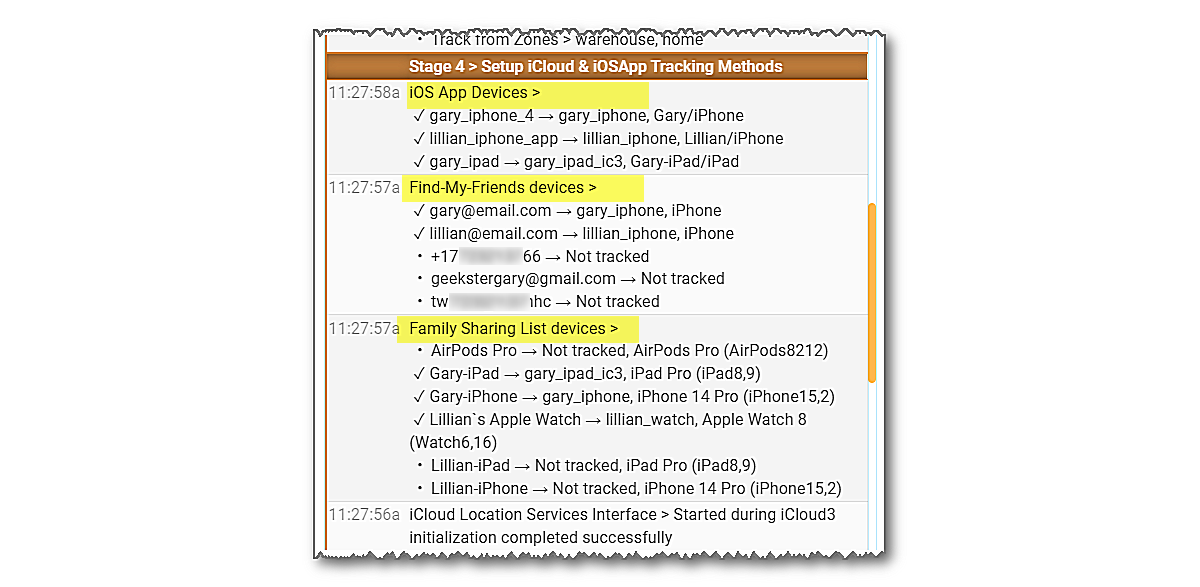
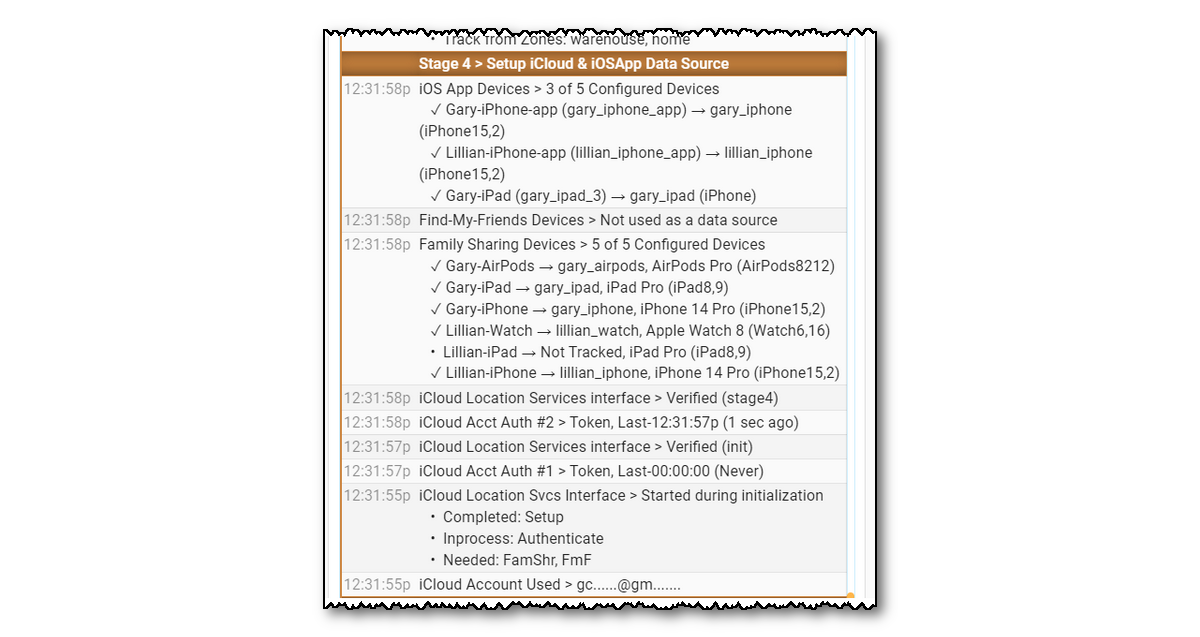
iCloud3 v3, docs

Changed region(s): [[0.2467, 0.0307, 0.7708, 0.9813]]

diff --git a/docs/chapters/4.2-device-tracking-problems.md b/docs/chapters/4.2-device-tracking-problems.md
@@ -1,5 +1,11 @@
 # Device Tracking Problems
 
+The following questions are discussed below:
+
+- The Event Log shows the following message but I can not find the 'platform: icloud3' parameter
+- The phone does not go to an Away state when you exit a zone
+-  Not all of the devices are being tracked
+
 
 
 -----
@@ -11,6 +17,11 @@ iCloud3 is an Integration. Delete the 'platform: icloud3'
 configuration parameters in the HA 'configuration.yaml' file.
 ```
 
+You can delete (or comment out) the iCloud3 parameters in the *configuration.yaml* file. Once iCloud3 is configured and you are satisfied, delete the parameters from the *configuration.yaml* file and delete the *config-ic2.yaml* file.
+
+If you can not find the parameters or the *config-ic3.yaml* file, keep looking. Be sure to check any sub-directories you might be using with an *include* statement.
+
+
 
 
 -----
@@ -20,21 +31,13 @@ configuration parameters in the HA 'configuration.yaml' file.
 Not changing to Away when you leave a zone means iCloud3 is not getting the zone exit trigger from the iOS app. Check the following:
 
 1. Verify the iOS App device_tracker entity name has not changed. 
-
    - Go to *Configuration > iCloud3 Devices > Select device> iOS App device_tracker entity* and verify the tracked device has a valid iOS App device_tracker entity assigned.
-
 2. The HA mobile app integration is not installed. 
-
    - Go to *Installing and Configuring iCloud3 > Step #2 - Install the iOS App on your iPhone or iPad* for more information.
-
 3. The iOS app device_tracker entity location is not being updated by the iOS app. 
-
    - The iOS App logs events as they take place, including location changes and zone enter/exit activity. On the device, open the iOS App. Select *HA Settings > Companion App > Debugging*. Then select *Event Log* to see what events the iOS App responded to or *Location History* to display a map showing the devices location at various times.
-
    - Check the device_tracker state value to see if is being updated. Go to *Developer Tools > States > device_tracker entity* and see if the zone name is displayed. The value is *not_home* when you are not in a zone and the zone's name when you are in a zone.
-
    - Verify the iOS App is sharing location information. Go to *Installing and Configuring iCloud3 > Step #2 - Install the iOS App on your iPhone or iPad* for screenshots of the correct settings.
-
    - Tracking Monitors can be displayed in the Event Log that show update activity. Select *Event Log > Actions > Show/Hide Tracking Monitors*. Look at the state change and trigger change values and times they changed. See *Debugging with Tracking Monitors* below.
 
 
@@ -62,20 +65,35 @@ Check the following on the untracked devices:
 
 - **Event Log:**
 
+  - **Stage 3 > Prepare Configured Device**s - This stage shows each device that will be tracked and the parameters in the configuration.
   - **Stage 4 > Setup iCloud & iOSApp Tracking Methods, Family Sharing List devices** - This stage lists all of the devices in the Family Sharing List on your iCloud account. 
-
     - A *check mark* indicates the device is being tracked by iCloud3. 
-
     - A *No Location* message indicates iCloud did not return any location information. iCloud3 will do several retries to clear this up before displaying an error message.
-
     - A *Not Tracked* message indicates this device is not in the iCloud3 configuration.
 
-      ![](../images/evlog-stage-4.png)
+      ![](../images/evlog-stage-3-4.png)
+  - **Things to look for:**
 
-    - Stages 3 show how the devices are configured in the iCloud3 Configuration. Stage 5 shows the final results.
+    -  Stage 4 - Every device in the Family Sharing list is listed. This includes the current iPhones, iPads, etc. along with old devices you no longer have.
+    - Stage 4 - Make sure there are no duplicate devices names for different models (for example: Gary-iPhone/iPhone 12, Gary-iPhone (2)/iPhone 13 Pro, etc). If there is, delete the old device from the Family Sharing List, change the name on the device itself (Settings > General > About) and select the correct device in the iCloud3 Configuration Wizard.
+    - Stage 3 - Make sure the device assigned in the configuration is correct and not  duplicate or old device that you no longer own.
+  - **Stage 5 > Configure Tracked Devices** - This screen is a summary of how the device is set up. 
+
+    - It shows the monitored and tracked devices
+    - The actual entities or devices that have been assigned:
+      - FamShr Device - The device from the family Sharing List
+      - iOS App Entity device - the HA device_tracker entity name
+      - Update Trigger - The iOS App's update trigger sensor that is monitored
+      - Battery - The iOS App's Battery sensor entity that is monitored for the battery level
+      - Notifications - Where messages will be sent using the iOS App
+      - Track from Zones -  The zones that are tracked from when tracking from more than one zone
+
+![](../images/evlog-stage-5.png)
+
+
+    
 
 - **iCloud3 Configuration Wizard:**
-
   - **Update Device screen** - Check the *Update Device* screen for the device that is not being tracked. Verify the Family Sharing device is set to the correct one. If you upgraded your phone and did not delete the old phone and did not rename the new one to the old phone's name, iCloud3 may still be tracking the old one. Look at the devices model number to make sure the assignment is correct.
 
     Remember, the device might still be tracked with the iOS App but getting Location Old errors from iCloud.

diff --git a/docs/chapters/3.0-config-parms.md b/docs/chapters/3.0-config-parms.md
@@ -1,4 +1,4 @@
-# Configuration Parameters -  GitHub commit
+# Configuration Parameters
 
 Configuration parameters for HA components are set up on the *HA Settings > Devices & Settings > Integrations > iCloud3 Configuration* screen previously discussed. 
 
@@ -58,26 +58,41 @@ This reference guide provides information and important notes about the configur
 
 ------
 
-### iCloud Account Login Credentials
+### Data Sources - iCloud Account & iOS App
 
-This screen is used to enter the iCloud account username & password parameters. It was described in the *Installing and Configuring iCloud3 - Step #5* chapter.
+iCloud3 uses location data from several services, your iCloud Account and the iOS App. This screen is used to select the sources to be used and to enter the iCloud account username & password parameters. It was described in the *Installing and Configuring iCloud3 - Step #5* chapter.
 
-![](../images/cf-acct-login.png)
+![](../images/cf-data-sources.png)
 
 Notes:
 
 - **Location Data Sourc**e - Normally, both the iCloud account and the iOS App provides location data. If, however, you are not using the iOS App on any device, and have no plans to do so, set the *Location Data Source* to *iCloud data only*.
+
 - **Password** - This is stored in the configuration file in an encrypted format. 
-- **Username & Password** - These fields are obscured on this screen. Select *Show/Hide username/password* to and select *Submit* to display them.
+
+- **Enter/Request an Apple ID Verification Code** **- This can also be selected from the *Configuration Menu* screen.
+
+  
 
 
 -----
 
-### Enter Verification Code
+### Enter/Request an Apple ID Verification Code
 
-This screen is used to enter the 6-digit verification code received from Apple. 
+This screen is used to:
+
+- Enter the 6-digit verification code received from Apple
+- Request a new 6-digit code if the one you just entered has expired or you clicked OK on the code you received from Apple and did not write it down.
 
 ![](../images/auth-process-3-code-entry.png)
+
+Notes:
+
+- A new code should be sent to your iDevice within a few seconds of requesting it. Entered the code you were sent and then select Submit to send it to Apple for verification.
+
+- You can also request a new code on the Event Log > Actions > Request Apple ID Verification Code.
+
+  
 
 -----
 
